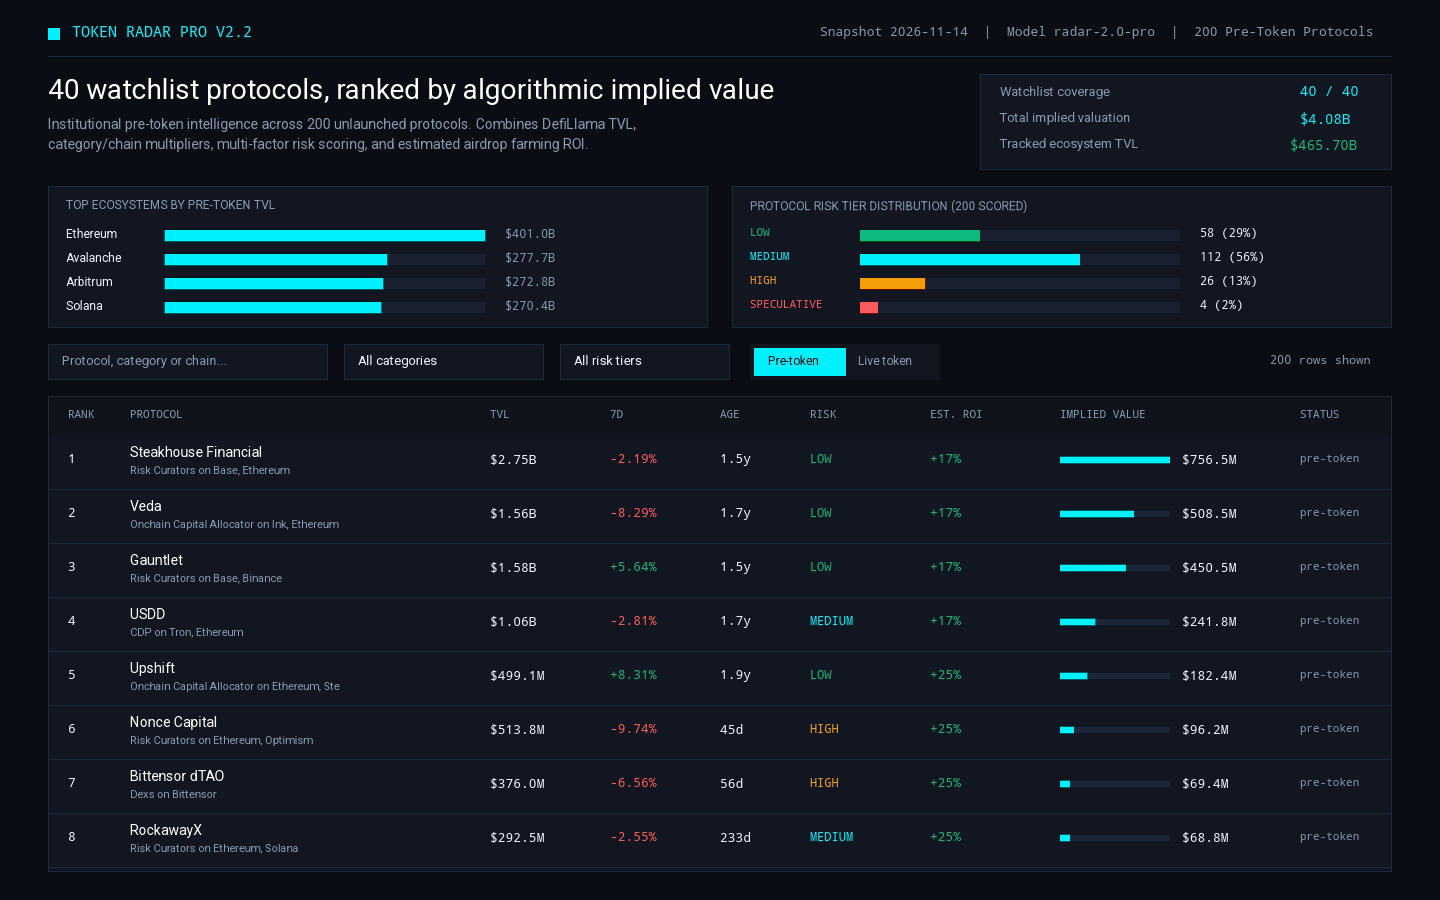
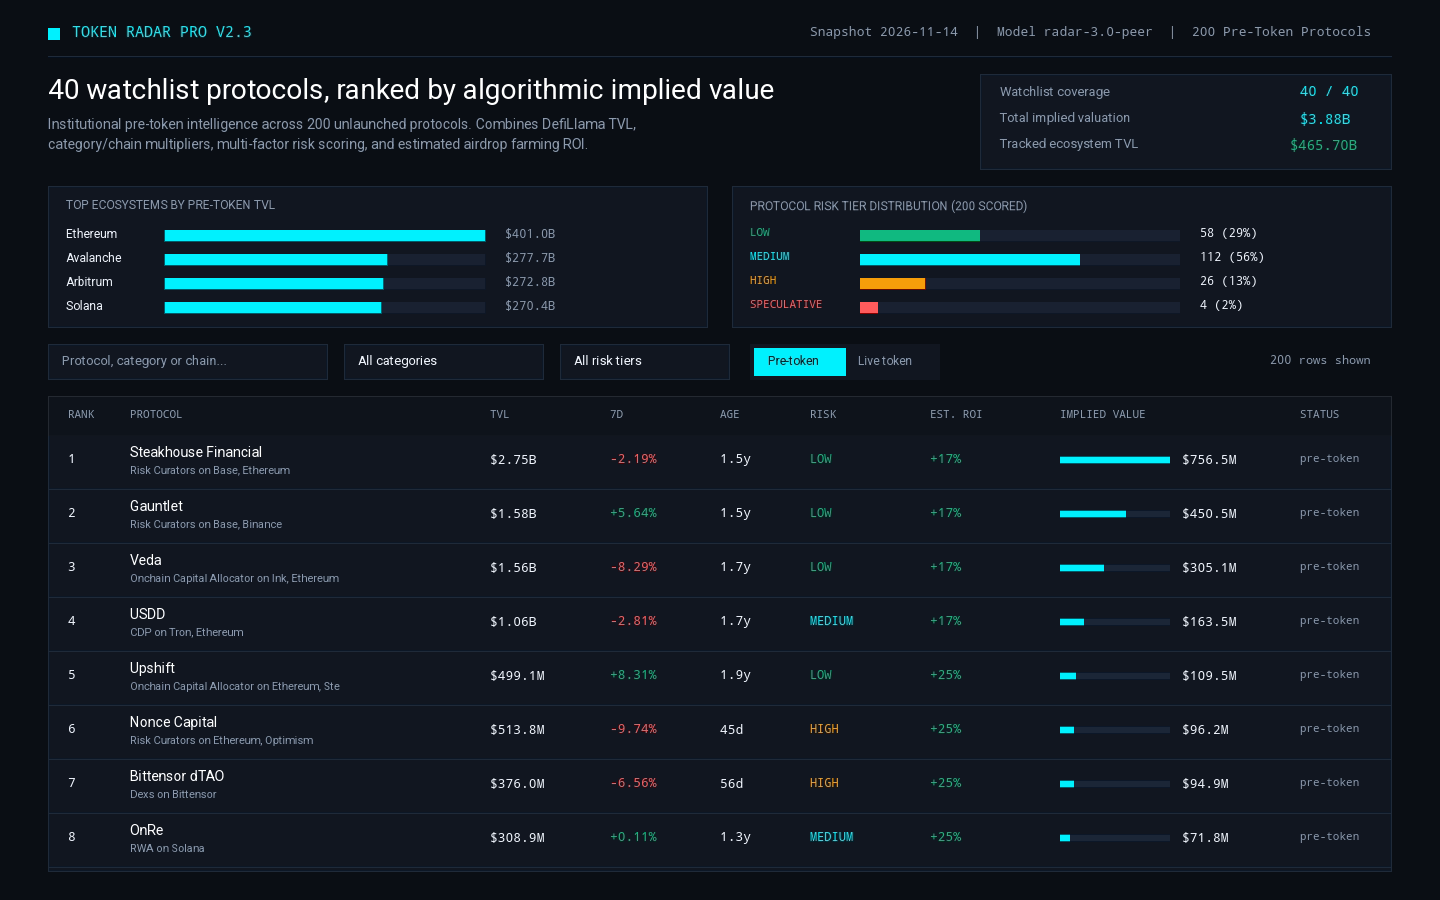
feat(v2.3): empirical peer-calibrated MCap/TVL valuation (radar-3.0-peer), cohort filter & CSV export

diff --git a/dashboard/app.js b/dashboard/app.js
@@ -12,6 +12,7 @@
     category: 'all',
     chain: 'all',
     risk: 'all',
+    cohort: 'all',
     tab: 'pre-token',
     sort: 'implied',
     dir: -1,
@@ -60,15 +61,41 @@
     return mult;
   }
 
+  function computePeerMultiples() {
+    var byCat = {};
+    (DATA.live || []).forEach(function (p) {
+      if (p.mcap_usd && p.mcap_usd > 0 && p.tvl_usd > 0 && p.category) {
+        var ratio = clamp(p.mcap_usd / p.tvl_usd, 0.15, 0.85);
+        if (!byCat[p.category]) byCat[p.category] = [];
+        byCat[p.category].push(ratio);
+      }
+    });
+    var medians = {};
+    Object.keys(byCat).forEach(function (cat) {
+      var vals = byCat[cat].sort(function (a, b) { return a - b; });
+      if (vals.length >= 2) {
+        var mid = Math.floor(vals.length / 2);
+        var med = vals.length % 2 === 0 ? (vals[mid - 1] + vals[mid]) / 2 : vals[mid];
+        medians[cat] = Math.round(med * 1000) / 1000;
+      }
+    });
+    return medians;
+  }
+
+  var PEER_MULTIPLES = computePeerMultiples();
+
   function impliedOf(row, baseM, growW) {
     var m = DATA.model;
     var bm = baseM !== undefined ? baseM : m.base_multiple;
+    var peerBase = (row.category && PEER_MULTIPLES[row.category] !== undefined && bm === m.base_multiple)
+      ? PEER_MULTIPLES[row.category]
+      : bm;
     var gw = growW !== undefined ? growW : m.growth_weight;
     var growth = clamp(row.change_7d === null || row.change_7d === undefined ? 0 : row.change_7d, m.growth_floor, m.growth_cap);
     var growthMult = 1 + (growth / 100) * gw;
     var age = row.age_days === null || row.age_days === undefined ? m.unknown_age_days : row.age_days;
     var maturity = m.maturity_floor + (clamp(age, 0, m.maturity_days) / m.maturity_days) * m.maturity_range;
-    return Math.max(1, Math.round(row.tvl_usd * bm * categoryMultiplier(row.category) * chainMultiplier(row.chains) * growthMult * maturity));
+    return Math.max(1, Math.round(row.tvl_usd * peerBase * categoryMultiplier(row.category) * chainMultiplier(row.chains) * growthMult * maturity));
   }
 
   function riskOf(row) {
@@ -219,11 +246,14 @@
 
   function visibleRows() {
     var q = state.q.trim().toLowerCase();
+    var floor = DATA.floor_usd || 50000000;
     var list = enrichedRows().filter(function (item) {
       var r = item.row;
       if (state.category !== 'all' && r.category !== state.category) return false;
       if (state.chain !== 'all' && (r.chains || []).indexOf(state.chain) < 0) return false;
       if (state.risk !== 'all' && item.risk.tier !== state.risk) return false;
+      if (state.cohort === 'watchlist' && r.tvl_usd < floor) return false;
+      if (state.cohort === 'early' && r.tvl_usd >= floor) return false;
       if (!q) return true;
       return r.name.toLowerCase().indexOf(q) >= 0 ||
         (r.category || '').toLowerCase().indexOf(q) >= 0 ||
@@ -248,7 +278,7 @@
     return el('header', { class: 'top' },
       el('div', { class: 'brand' },
         el('span', { class: 'mark', 'aria-hidden': 'true' }),
-        el('span', { class: 'brand-name', text: 'Token Radar Pro v2.2' })
+        el('span', { class: 'brand-name', text: 'Token Radar Pro v2.3' })
       ),
       el('div', { class: 'top-meta' },
         el('span', { text: 'Snapshot ' + DATA.as_of }),
@@ -256,6 +286,42 @@
         el('span', { text: DATA.board_size + ' Pre-Token Protocols' })
       )
     );
+  }
+
+  function peerStrip() {
+    var cats = Object.keys(PEER_MULTIPLES).sort();
+    var pills = cats.slice(0, 6).map(function (cat) {
+      return el('span', { class: 'peer-pill' }, cat + ': ', el('b', { text: PEER_MULTIPLES[cat].toFixed(2) + 'x' }));
+    });
+    return el('section', { class: 'peer-strip', 'aria-label': 'Empirical Peer Calibration Multiples' },
+      el('span', { class: 'sandbox-title', text: 'Live Peer MCap/TVL' }),
+      pills.length ? pills : el('span', { class: 'sub', text: 'Fallback base ' + DATA.model.base_multiple + 'x' })
+    );
+  }
+
+  function exportCsv() {
+    var rows = visibleRows();
+    var lines = ['rank,name,category,chains,tvl_usd,change_7d,age_days,risk_tier,est_roi_pct,implied_value_usd'];
+    rows.forEach(function (it) {
+      var r = it.row;
+      lines.push([
+        r.rank,
+        '"' + r.name.replace(/"/g, '""') + '"',
+        '"' + (r.category || '') + '"',
+        '"' + (r.chains || []).join(';') + '"',
+        r.tvl_usd,
+        r.change_7d === null ? '' : r.change_7d,
+        r.age_days === null ? '' : r.age_days,
+        it.risk.tier,
+        it.yield.roiPct,
+        it.implied
+      ].join(','));
+    });
+    var blob = new Blob([lines.join('\n')], { type: 'text/csv;charset=utf-8;' });
+    var a = document.createElement('a');
+    a.href = URL.createObjectURL(blob);
+    a.download = 'token-radar-board.csv';
+    a.click();
   }
 
   function lede() {
@@ -379,6 +445,15 @@
       })
     );
 
+    var cohortSelect = el('select', {
+      id: 'f-cohort',
+      onchange: function (e) { state.cohort = e.target.value; render(); }
+    },
+      el('option', { value: 'all', text: 'All cohorts (200)', selected: state.cohort === 'all' ? 'selected' : null }),
+      el('option', { value: 'watchlist', text: 'Watchlist >=$50M (40)', selected: state.cohort === 'watchlist' ? 'selected' : null }),
+      el('option', { value: 'early', text: 'Early Gems <$50M (160)', selected: state.cohort === 'early' ? 'selected' : null })
+    );
+
     return el('div', { class: 'controls' },
       el('div', { class: 'field' },
         el('label', { for: 'f-search', text: 'Search' }),
@@ -390,6 +465,7 @@
       el('div', { class: 'field' }, el('label', { for: 'f-cat', text: 'Category' }), catSelect),
       el('div', { class: 'field' }, el('label', { for: 'f-chain', text: 'Chain' }), chainSelect),
       el('div', { class: 'field' }, el('label', { for: 'f-risk', text: 'Risk Tier' }), riskSelect),
+      el('div', { class: 'field' }, el('label', { for: 'f-cohort', text: 'Cohort' }), cohortSelect),
       el('div', { class: 'field' },
         el('label', { text: 'Universe' }),
         el('div', { class: 'tabs', role: 'group', 'aria-label': 'Universe' },
@@ -403,6 +479,7 @@
           })
         )
       ),
+      el('button', { type: 'button', class: 'btn-export', text: 'Export CSV', onclick: exportCsv }),
       el('div', { class: 'count', text: shown + ' rows shown' })
     );
   }
@@ -583,6 +660,7 @@
     shell.appendChild(header());
     shell.appendChild(lede());
     if (state.tab === 'pre-token') {
+      shell.appendChild(peerStrip());
       shell.appendChild(analyticsCharts());
       shell.appendChild(sandboxPanel());
     }

diff --git a/lib/model.ts b/lib/model.ts
@@ -64,7 +64,7 @@ export const MODEL: ModelConstants = {
 };
 
 /** The model's version label: the dashboard names it and the rules quote it. */
-export const MODEL_VERSION = 'radar-1';
+export const MODEL_VERSION = 'radar-3.0-peer';
 
 /** How many pre-token protocols below the watchlist floor the early radar carries, by TVL. */
 export const EARLY_ROWS = 160;
@@ -193,8 +193,38 @@ export function chainMultiplier(chains: string[]): number {
   return mult;
 }
 
+/** Compute empirical median MCap/TVL multiples by category from live-token peers in the snapshot. */
+export function computePeerMultiples(protocols: SnapshotProtocol[], defaultMult: number): Map<string, number> {
+  const byCat = new Map<string, number[]>();
+  for (const p of protocols) {
+    if (p.mcap_usd !== null && p.mcap_usd > 0 && p.tvl_usd > 0 && p.category) {
+      const ratio = Math.min(0.85, Math.max(0.15, p.mcap_usd / p.tvl_usd));
+      const arr = byCat.get(p.category) ?? [];
+      arr.push(ratio);
+      byCat.set(p.category, arr);
+    }
+  }
+  const medians = new Map<string, number>();
+  for (const [cat, vals] of byCat.entries()) {
+    if (vals.length >= 2) {
+      vals.sort((a, b) => a - b);
+      const mid = Math.floor(vals.length / 2);
+      const med = vals.length % 2 === 0 ? (vals[mid - 1]! + vals[mid]!) / 2 : vals[mid]!;
+      medians.set(cat, Math.round(med * 1000) / 1000);
+    } else {
+      medians.set(cat, defaultMult);
+    }
+  }
+  return medians;
+}
+
 /** The three multipliers and the implied value one protocol gets under `model`. */
-export function impliedValue(protocol: SnapshotProtocol, asOf: string, model: ModelConstants): { implied: number; growthPct: number; growthMult: number; maturityMult: number; age: number | null } {
+export function impliedValue(
+  protocol: SnapshotProtocol,
+  asOf: string,
+  model: ModelConstants,
+  peerMultiples?: Map<string, number>,
+): { implied: number; growthPct: number; growthMult: number; maturityMult: number; age: number | null } {
   const age = ageDays(asOf, protocol.listed_at);
   const rawGrowth = finite(protocol.change_7d, 0);
   const growthPct = Math.min(model.growth_cap, Math.max(model.growth_floor, rawGrowth));
@@ -203,7 +233,10 @@ export function impliedValue(protocol: SnapshotProtocol, asOf: string, model: Mo
   const maturityMult = model.maturity_floor + (Math.min(Math.max(ageForModel, 0), model.maturity_days) / model.maturity_days) * model.maturity_range;
   const catMult = categoryMultiplier(protocol.category);
   const chMult = chainMultiplier(protocol.chains);
-  const base = protocol.tvl_usd * model.base_multiple * catMult * chMult;
+  const peerBase = protocol.category && peerMultiples?.has(protocol.category)
+    ? peerMultiples.get(protocol.category)!
+    : model.base_multiple;
+  const base = protocol.tvl_usd * peerBase * catMult * chMult;
   const implied = Math.max(1, Math.round(base * growthMult * maturityMult));
   return { implied, growthPct, growthMult, maturityMult, age };
 }
@@ -252,8 +285,9 @@ export function buildBoard(snapshot: Snapshot, model: ModelConstants = MODEL): B
     .slice(0, EARLY_ROWS);
   for (const p of early) chosen.set(p.slug, p);
 
+  const peerMultiples = computePeerMultiples(snapshot.protocols, model.base_multiple);
   const scored = [...chosen.values()].map((p) => {
-    const { implied, growthPct, growthMult, maturityMult, age } = impliedValue(p, snapshot.as_of, model);
+    const { implied, growthPct, growthMult, maturityMult, age } = impliedValue(p, snapshot.as_of, model, peerMultiples);
     return { p, implied, growthPct, growthMult, maturityMult, age };
   });
   scored.sort((a, b) => b.implied - a.implied || (a.p.slug < b.p.slug ? -1 : a.p.slug > b.p.slug ? 1 : 0));

diff --git a/dashboard/app.css b/dashboard/app.css
@@ -91,6 +91,11 @@ a:hover { text-decoration: underline; }
 .slider-wrap input[type="range"] { accent-color: var(--accent); cursor: pointer; }
 .btn-reset { padding: 4px 10px; border: 1px solid var(--border); border-radius: 6px; background: var(--surface-raised); font-size: 12px; color: var(--muted); }
 .btn-reset:hover { border-color: var(--accent); color: var(--accent); }
+.btn-export { padding: 6px 12px; border: 1px solid var(--accent); border-radius: var(--radius-control); background: var(--accent-soft); font-size: 12px; font-family: var(--font-num); color: var(--accent); font-weight: 600; }
+.btn-export:hover { background: var(--accent); color: #080c10; }
+.peer-strip { display: flex; flex-wrap: wrap; gap: var(--step-2); align-items: center; background: var(--surface); border: 1px solid var(--border); border-radius: var(--radius-panel); padding: var(--step-3) var(--step-4); margin-bottom: var(--step-4); font-size: 12px; }
+.peer-pill { background: var(--canvas); border: 1px solid var(--border); border-radius: 6px; padding: 3px 9px; font-family: var(--font-num); color: var(--ink); }
+.peer-pill b { color: var(--accent); }
 
 .controls { display: flex; flex-wrap: wrap; align-items: end; gap: var(--step-3); padding: var(--step-4) 0; border-top: 1px solid var(--border); }
 .field { display: grid; gap: var(--step-1); }
